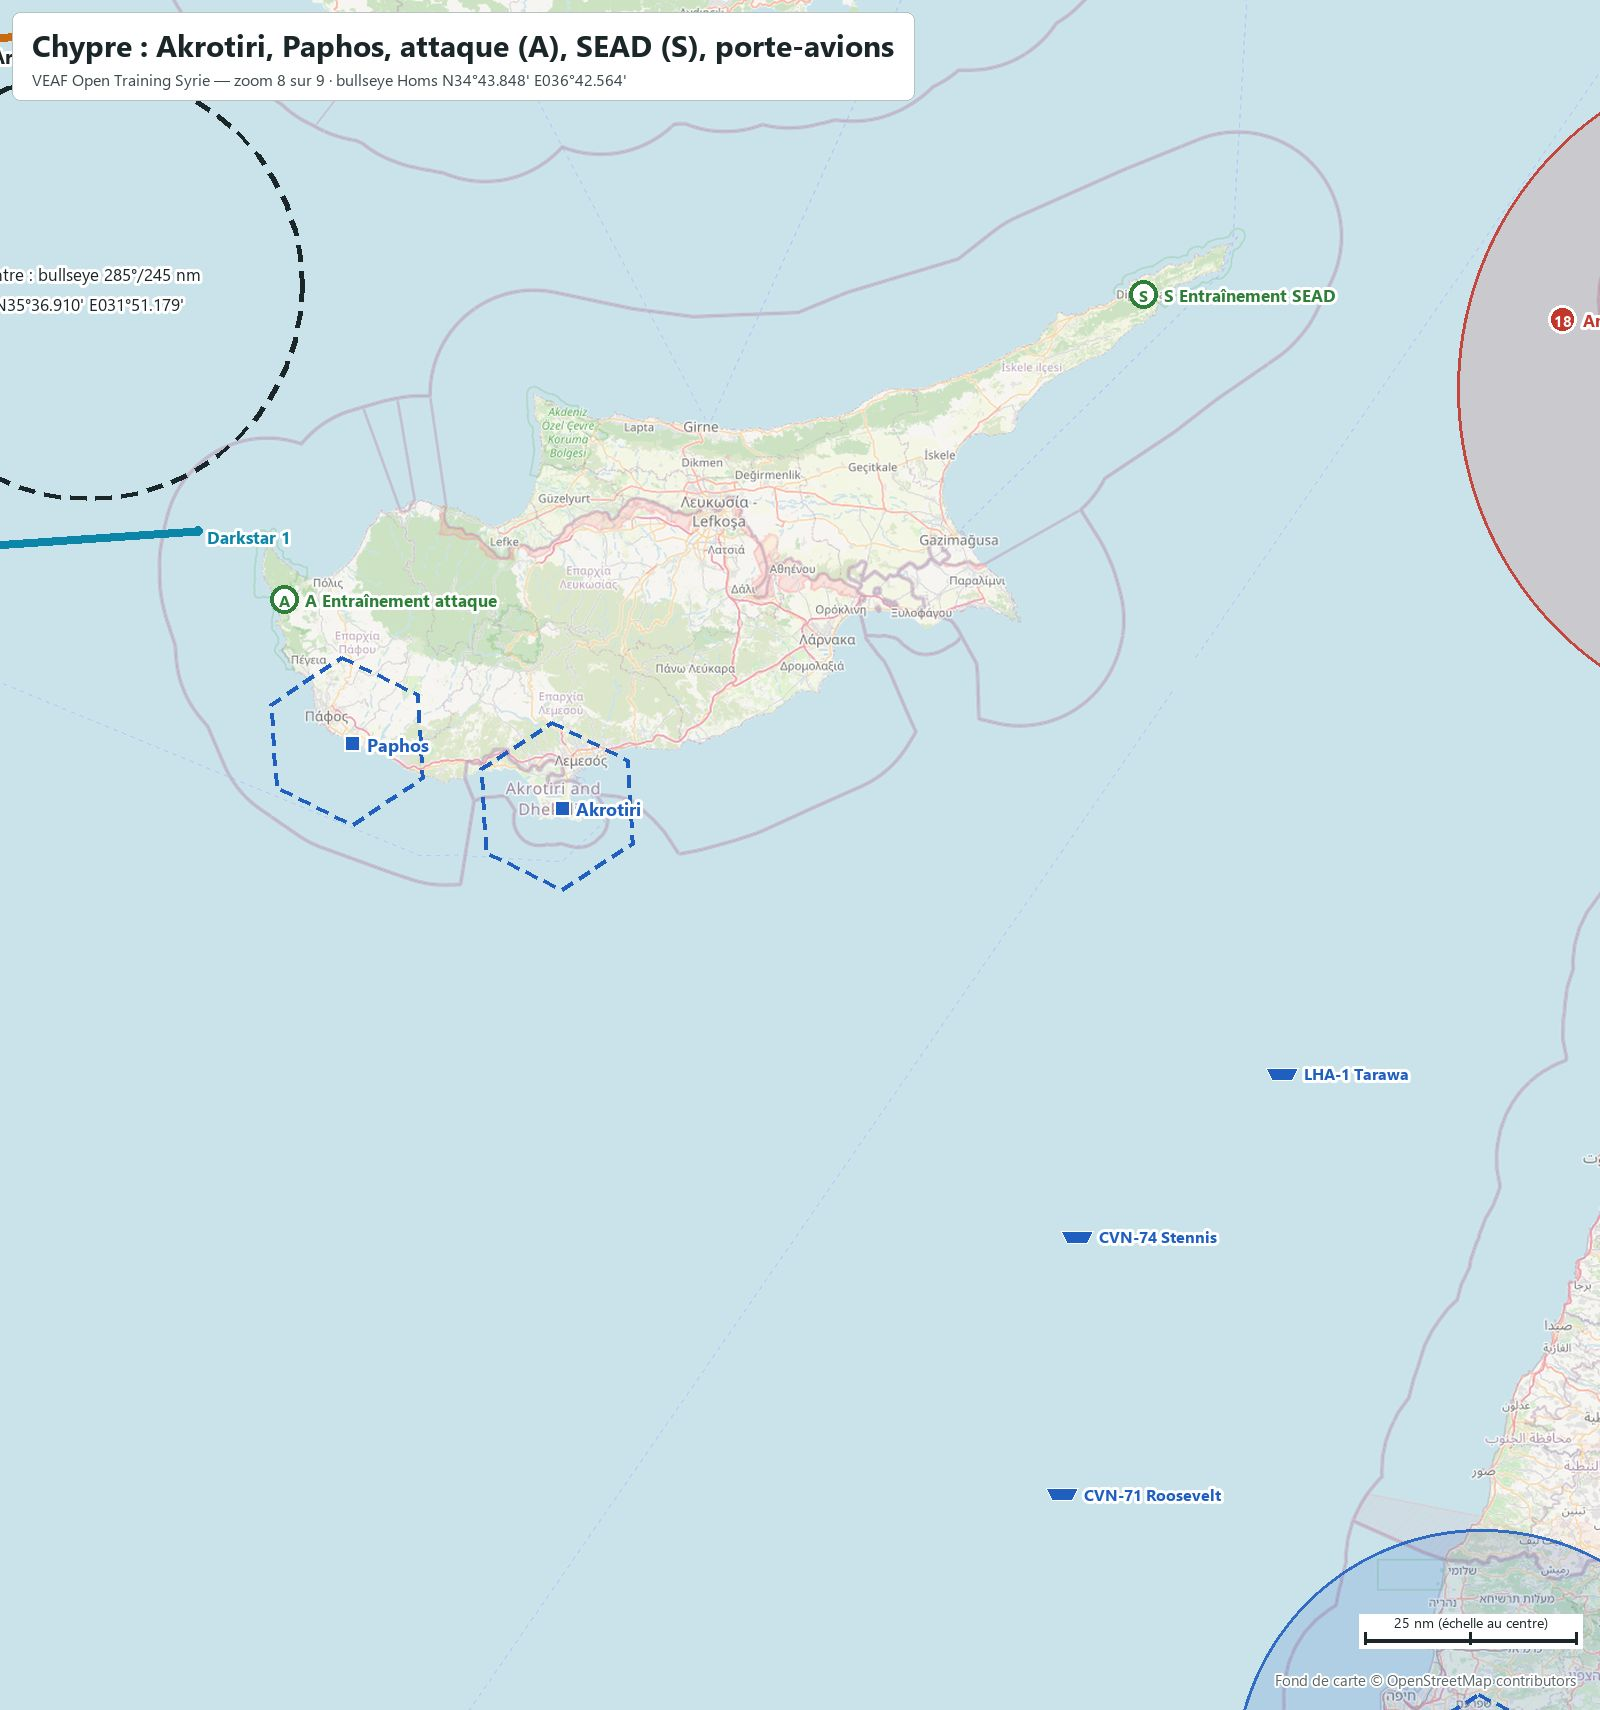
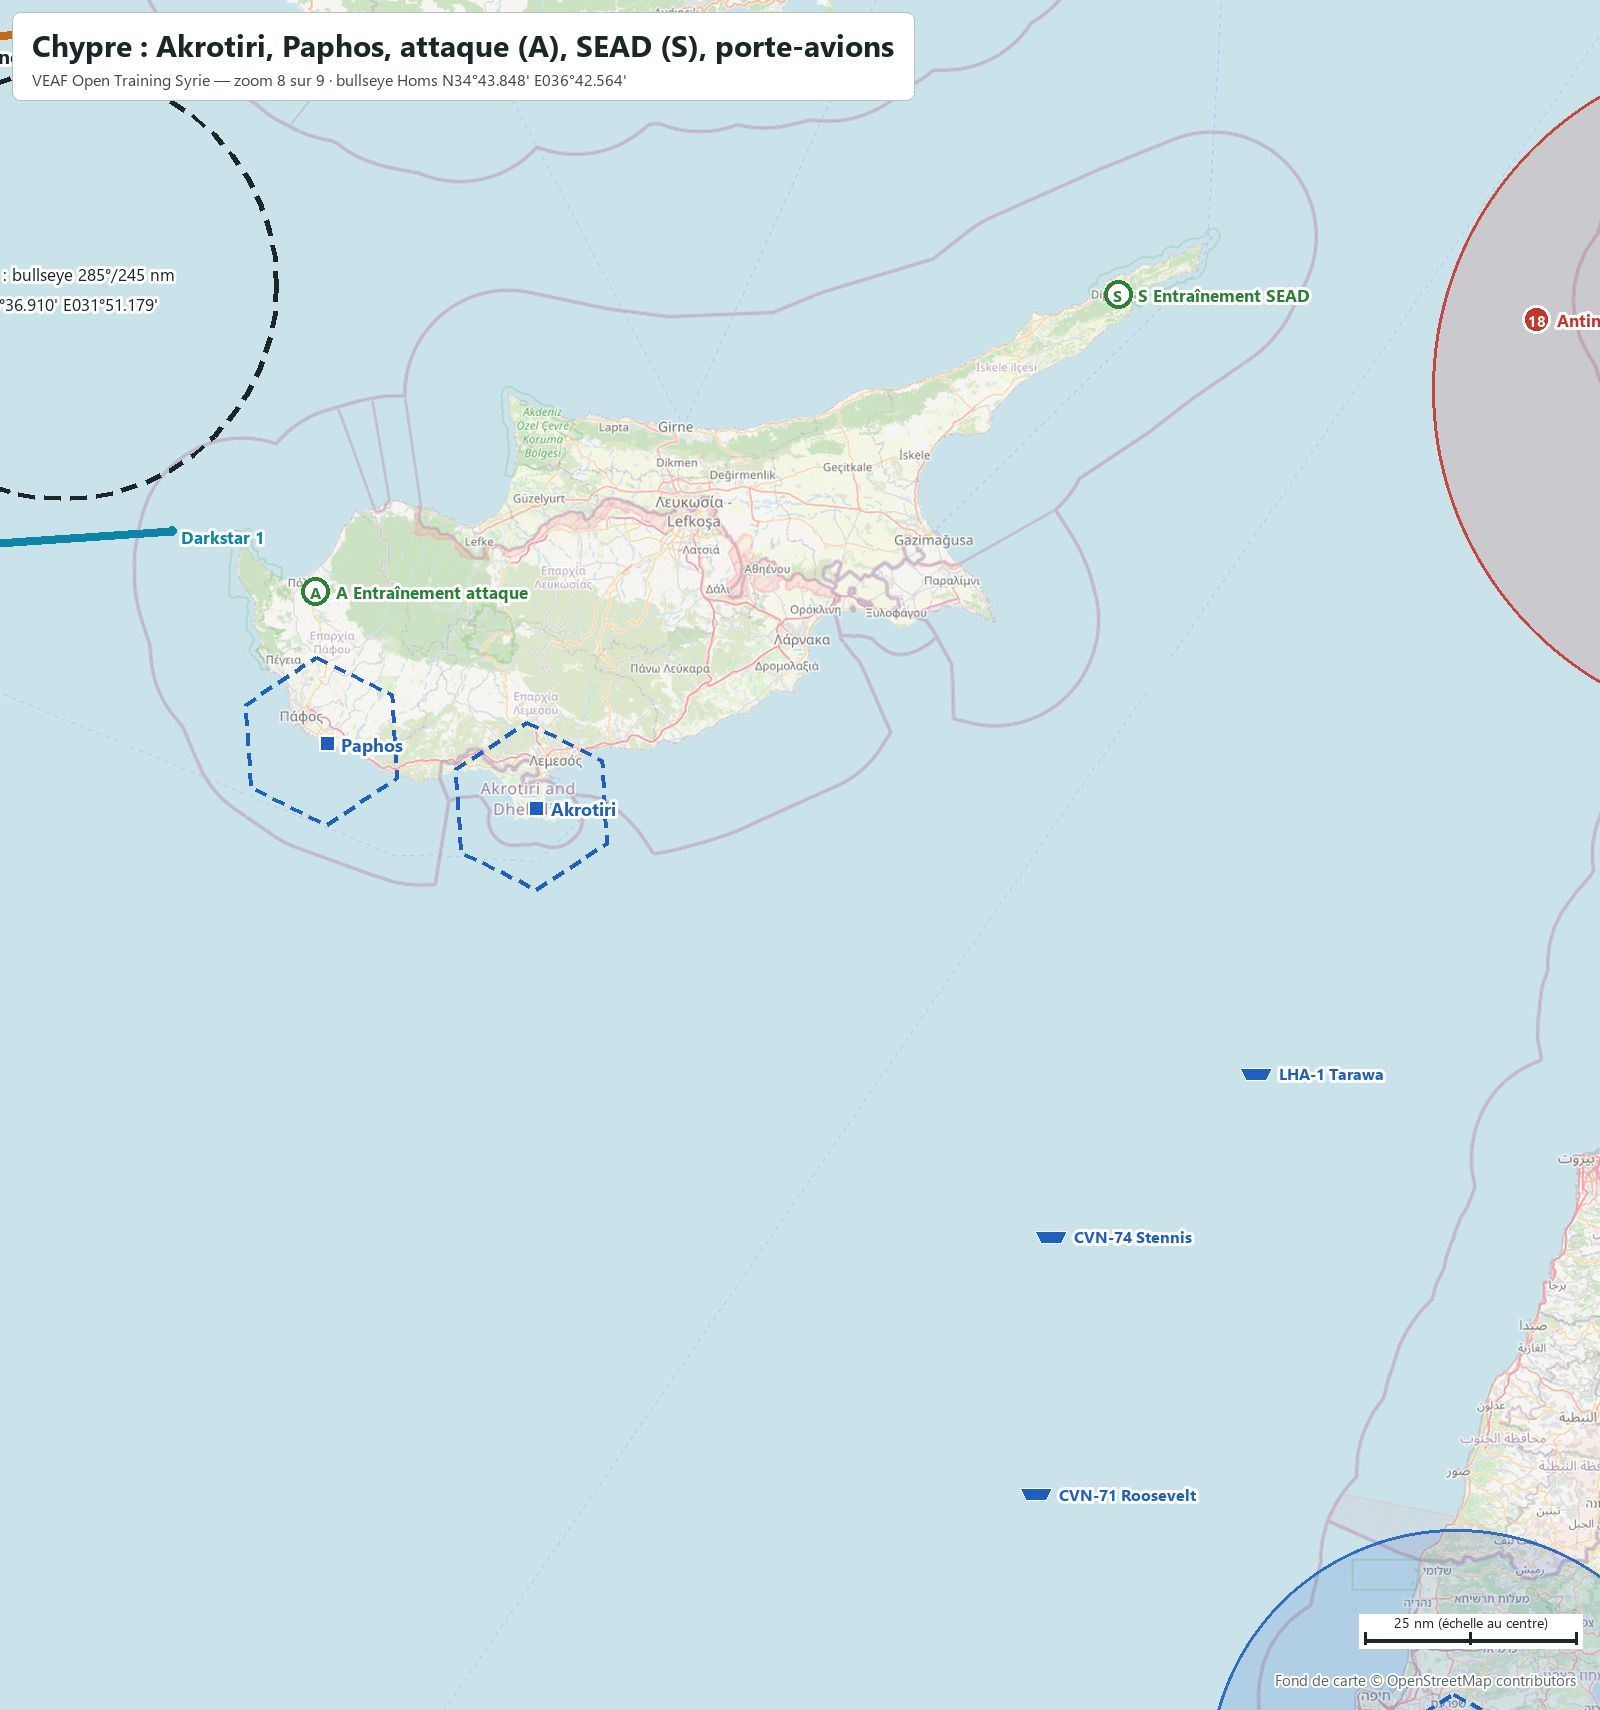
fix(akamas): move the Akamas range out of the forest, to the Polis plain
Rex reported the Akamas combat zones standing in the trees. Seen in game
(2026-11-12): a T-72 at the Easy tank line stood in the middle of a wood.
DCS's own scenery probe (clear-ground-check, clear-ground-sweep) had called
the whole 6 km square clear: on this peninsula it does not see the forest.

The whole family moves 12.5 km east (+876 N, +12514 E), to the farmland of
the Polis plain at the foot of the peninsula, keeping its layout: the three
trigger zones, the 14 targets and markers of Easy/Medium/Hard, and the
Reaper 2 orbit above them. Every new position was checked in game with a
coloured smoke: fields and open maquis, no element in a wood, all on land.

Briefing text names the Polis plain; the Position lines, README and maps are
regenerated by the mission's tools (gather, sync_zone_briefings,
gen_briefing, gen_readme).

diff --git a/README.md b/README.md
@@ -80,7 +80,7 @@ En Méditerranée orientale, au large du Liban. Slots à froid sur le pont. Le m
 | Drone | Appareil | Au-dessus de | Code laser | Radio | Hauteur | Bullseye |
 |---|---|---|---|---|---|---|
 | **Reaper 1** | MQ-9 Reaper | Ceyhan | `1511` | `35.55 FM` | `3 000 m sol` | `346°/141 nm` |
-| **Reaper 2** | MQ-9 Reaper | Akamas | `1512` | `35.6 FM` | `3 000 m sol` | `277°/218 nm` |
+| **Reaper 2** | MQ-9 Reaper | Akamas | `1512` | `35.6 FM` | `3 000 m sol` | `277°/211 nm` |
 
 Un drone tourne au-dessus des zones d'entraînement hélicoptères (Ceyhan) et attaque (Akamas), et désigne au laser ce qu'il voit. CTLD le maintient à 3 000 m sol : au niveau difficile, l'artillerie antiaérienne lourde de la zone peut l'abattre, et le menu F10 *Assets* le remet en vol. Il ne désigne que des véhicules — ce que sont aussi les cibles des niveaux faciles — et ne marque qu'à 10 km. Pas de drone sur la zone SEAD de Karpas : ses SAM portent plus loin que le laser.
 
@@ -100,9 +100,9 @@ Loin du front, à quelques minutes d'une base. Trois niveaux par famille, chacun
 
 ### Attaque — Akamas (Chypre)
 
-`N35°00.082' E032°19.364'` · bullseye `277°/218 nm` · rayon 1.6 nm · menu F10 « Entraînement attaque » · Arco 1 (panier, TACAN 51Y, 291.0) à 162 nm ; Texaco 1 (perche, TACAN 50Y, 290.0) à 234 nm
+`N35°01.000' E032°27.500'` · bullseye `277°/211 nm` · rayon 1.6 nm · menu F10 « Entraînement attaque » · Arco 1 (panier, TACAN 51Y, 291.0) à 157 nm ; Texaco 1 (perche, TACAN 50Y, 290.0) à 228 nm
 
-- **A1 Attaque Akamas — facile** — Champ de tir air-sol sur la péninsule d'Akamas (ouest de Chypre) : blindés et camions immobiles en tir interdit, dépôt et réservoir.
+- **A1 Attaque Akamas — facile** — Champ de tir air-sol dans la plaine de Polis, au pied de la péninsule d'Akamas (ouest de Chypre) : blindés et camions immobiles en tir interdit, dépôt et réservoir.
 - **A2 Attaque Akamas — moyen** — Champ de tir d'Akamas : une compagnie blindée et de l'artillerie antiaérienne en plus des cibles du niveau facile.
 - **A3 Attaque Akamas — difficile** — Champ de tir d'Akamas : un second groupe blindé et une défense sol-air courte portée à guidage radar.
 
